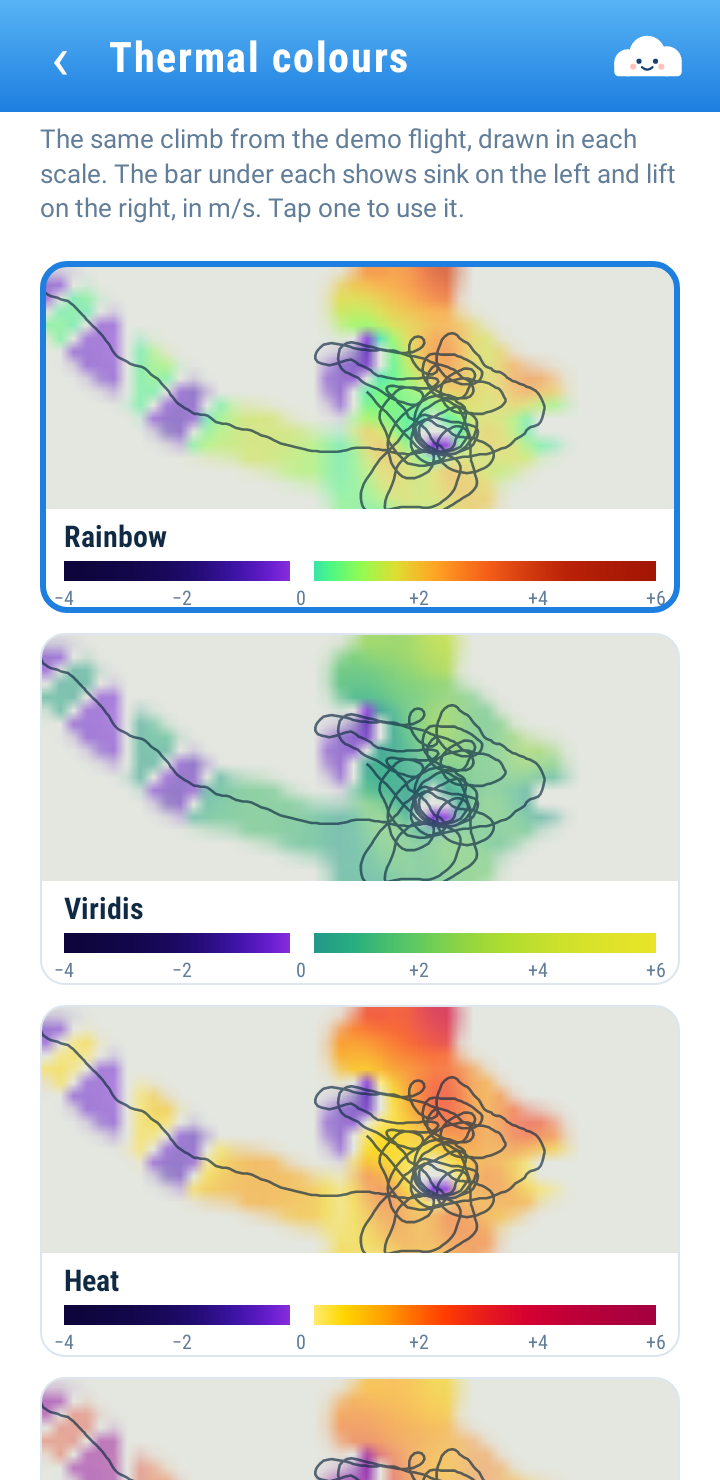
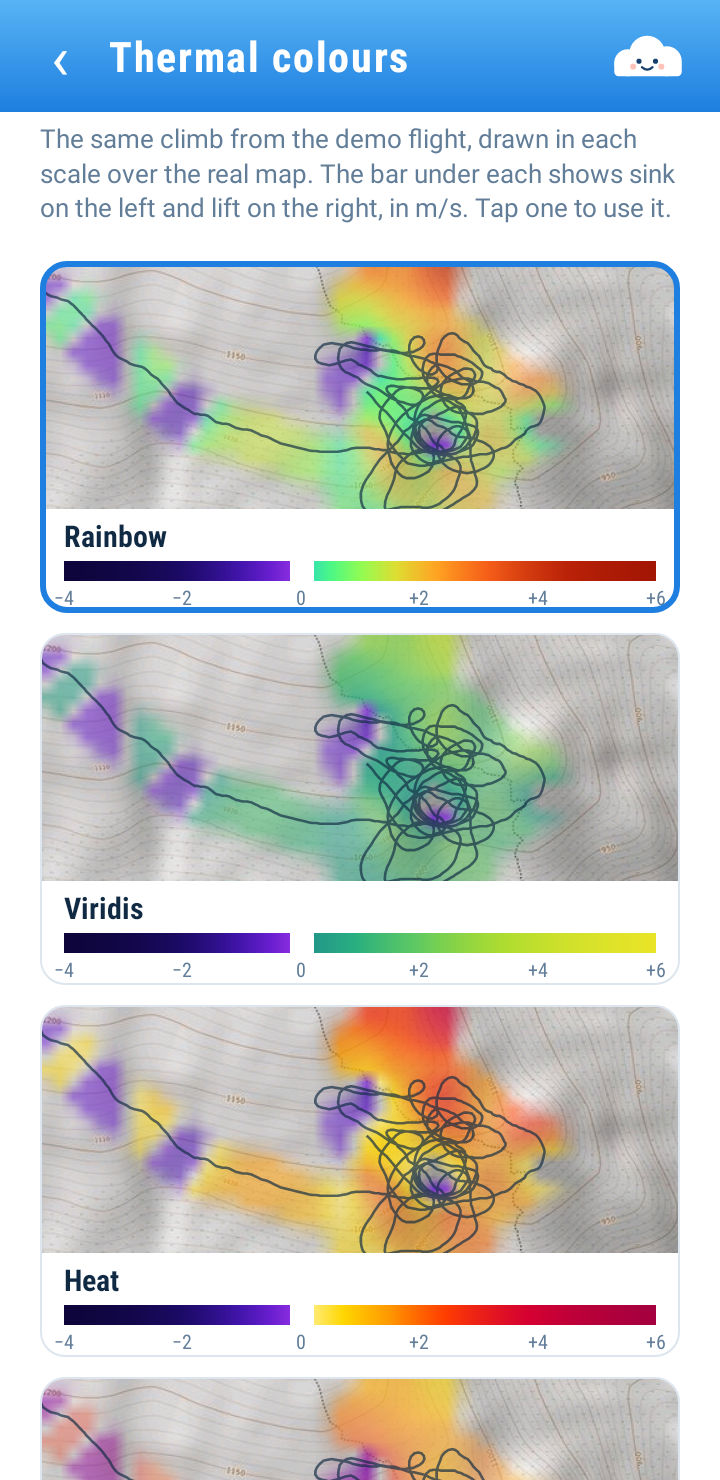
cloudbase: thermal colour previews drawn over the real map
Claude-Session: https://claude.ai/code/session_01WPq8MfriARqNX7o4hLC8bK

diff --git a/app/src/main/java/app/cloudbase/ui/PalettePreview.kt b/app/src/main/java/app/cloudbase/ui/PalettePreview.kt
@@ -2,6 +2,7 @@ package app.cloudbase.ui
 
 import android.content.Context
 import android.graphics.Bitmap
+import android.graphics.BitmapFactory
 import android.graphics.Canvas
 import android.graphics.Color
 import android.graphics.Paint
@@ -19,15 +20,21 @@ import app.cloudbase.ui.Theme.sp
 
 /**
  * What the thermal map looked like a third of the way into the demo flight (a real one: a climb,
- * with sink on the way in), kept as plain numbers so it can be drawn in any colour scale. The
+ * with sink on the way in), kept as plain numbers so it can be drawn in any colour scale, and
+ * the piece of real map it happened over. The
  * settings page shows it once per scale so the choice is made on real air, not on a legend.
  */
 object PaletteSample {
     const val SIZE = 48
     /** Seconds into the recorded flight: circling in the climb at Coronet Peak. */
     private const val AT_S = 1060
+    private const val MAP_ASSET = "preview_map.jpg"
 
-    class Data(val ix: IntArray, val iy: IntArray, val climb: FloatArray, val weight: FloatArray, val trackX: FloatArray, val trackY: FloatArray)
+    /** [map] is the real map under exactly this window (tools/make_preview_map.py), or null if it could not be read. */
+    class Data(
+        val ix: IntArray, val iy: IntArray, val climb: FloatArray, val weight: FloatArray,
+        val trackX: FloatArray, val trackY: FloatArray, val map: Bitmap?,
+    )
 
     @Volatile var data: Data? = null
         private set
@@ -74,7 +81,11 @@ object PaletteSample {
         val trail = c.trail
         val tx = FloatArray(trail.size) { k -> (proj.x(trail.lon(k)) / cell).toFloat() + SIZE / 2 }
         val ty = FloatArray(trail.size) { k -> SIZE / 2 - (proj.y(trail.lat(k)) / cell).toFloat() }
-        return Data(ix.toIntArray(), iy.toIntArray(), climb.toFloatArray(), weight.toFloatArray(), tx, ty)
+        // How a colour scale reads depends on what is underneath, so the previews sit on the real map.
+        val map = try {
+            context.assets.open(MAP_ASSET).use { BitmapFactory.decodeStream(it, null, BitmapFactory.Options().apply { inPreferredConfig = Bitmap.Config.RGB_565 }) }
+        } catch (e: Exception) { null }
+        return Data(ix.toIntArray(), iy.toIntArray(), climb.toFloatArray(), weight.toFloatArray(), tx, ty, map)
     }
 }
 
@@ -83,7 +94,7 @@ class PalettePreview(context: Context, private val palette: HeatGrid.Palette, pr
     private val bitmap = Bitmap.createBitmap(PaletteSample.SIZE, PaletteSample.SIZE, Bitmap.Config.ARGB_8888)
     private var rendered = false
     private val filter = Paint(Paint.FILTER_BITMAP_FLAG)
-    private val ground = Paint().apply { color = Color.parseColor("#E4E7E0") } // about the tone of the map's hill shading
+    private val ground = Paint().apply { color = Color.parseColor("#E4E7E0") } // shown until the map image has loaded
     private val trackPaint = Paint(Paint.ANTI_ALIAS_FLAG).apply { style = Paint.Style.STROKE; color = Color.argb(170, 16, 42, 67); strokeWidth = context.dp(1.3f) }
     private val border = Paint(Paint.ANTI_ALIAS_FLAG).apply { style = Paint.Style.STROKE; color = if (selected) Theme.ACCENT else Theme.LINE; strokeWidth = context.dp(if (selected) 3f else 1f) }
     private val text = Paint(Paint.ANTI_ALIAS_FLAG).apply { color = Theme.TEXT; textSize = context.sp(15f); typeface = Theme.CONDENSED_BOLD }
@@ -131,6 +142,7 @@ class PalettePreview(context: Context, private val palette: HeatGrid.Palette, pr
             dst.set(0f, top, side, top + side)
             canvas.save()
             canvas.clipRect(0f, 0f, width.toFloat(), pictureH)
+            d.map?.let { canvas.drawBitmap(it, null, dst, filter) }
             canvas.drawBitmap(bitmap, null, dst, filter)
             val k = side / PaletteSample.SIZE
             track.rewind()

diff --git a/app/src/main/java/app/cloudbase/ui/Pages.kt b/app/src/main/java/app/cloudbase/ui/Pages.kt
@@ -355,7 +355,7 @@ class OfflinePage(act: MainActivity) : Page(act, "Offline maps") {
 class ColoursPage(act: MainActivity) : Page(act, "Thermal colours") {
     override fun build() {
         val s = Hub.settings
-        note("The same climb from the demo flight, drawn in each scale. The bar under each shows sink on the left and lift on the right, in m/s. Tap one to use it.")
+        note("The same climb from the demo flight, drawn in each scale over the real map. The bar under each shows sink on the left and lift on the right, in m/s. Tap one to use it.")
         // The sample is worked out once, off the main thread; the tiles fill in when it is ready.
         PaletteSample.load(act, { r -> list.post(r) }) { rebuild() }
         for (p in HeatGrid.Palette.values()) {

diff --git a/tools/make_preview_map.py b/tools/make_preview_map.py
@@ -1,0 +1,60 @@
+#!/usr/bin/env python3
+"""Make app/src/main/assets/preview_map.jpg: the piece of map behind the thermal-colour previews.
+
+The Thermal colours page draws the thermal map as it was 1060 s into the demo flight
+(app/src/main/assets/demo_flight.igc) on a 48 x 48 grid of 30 m cells centred on the glider.
+This fetches the OpenTopoMap tiles under exactly that window, stitches and crops them, and saves
+one small image, so the previews show real map colours without needing the network.
+
+Re-run if the demo flight, PaletteSample.AT_S, SIZE or the cell size changes. Needs Pillow.
+    python3 tools/make_preview_map.py
+Map data (c) OpenStreetMap contributors, SRTM; map style (c) OpenTopoMap (CC-BY-SA).
+"""
+import io, math, os, urllib.request
+from PIL import Image
+
+HERE = os.path.dirname(os.path.abspath(__file__))
+IGC = os.path.join(HERE, "../app/src/main/assets/demo_flight.igc")
+OUT = os.path.join(HERE, "../app/src/main/assets/preview_map.jpg")
+AT_S, SIZE, CELL_M, ZOOM, PIXELS = 1060, 48, 30.0, 16, 512
+EARTH_R = 6_371_008.8  # as core/Geo.kt, so the window matches LocalProjection
+
+
+def fix_at(seconds):
+    rows = [l for l in open(IGC, errors="replace") if l.startswith("B")]
+    tod = lambda l: int(l[1:3]) * 3600 + int(l[3:5]) * 60 + int(l[5:7])
+    last = [l for l in rows if tod(l) - tod(rows[0]) <= seconds][-1]
+    lat = (int(last[7:9]) + int(last[9:14]) / 60000) * (-1 if last[14] == "S" else 1)
+    lon = (int(last[15:18]) + int(last[18:23]) / 60000) * (-1 if last[23] == "W" else 1)
+    return lat, lon
+
+
+def world_px(lat, lon):
+    n = 256 * 2 ** ZOOM
+    s = math.sin(math.radians(lat))
+    return (lon + 180) / 360 * n, (0.5 - math.log((1 + s) / (1 - s)) / (4 * math.pi)) * n
+
+
+def main():
+    lat0, lon0 = fix_at(AT_S)
+    m_lat = EARTH_R * math.pi / 180
+    m_lon = m_lat * math.cos(math.radians(lat0))
+    # Grid column i covers east (i - SIZE/2 - 0.5 .. i - SIZE/2 + 0.5) cells; row j covers north (SIZE/2 - j + 0.5 .. - 0.5).
+    west, east = (-SIZE / 2 - 0.5) * CELL_M, (SIZE / 2 - 0.5) * CELL_M
+    north, south = (SIZE / 2 + 0.5) * CELL_M, (-SIZE / 2 + 0.5) * CELL_M
+    x0, y0 = world_px(lat0 + north / m_lat, lon0 + west / m_lon)
+    x1, y1 = world_px(lat0 + south / m_lat, lon0 + east / m_lon)
+    tx0, ty0, tx1, ty1 = int(x0 // 256), int(y0 // 256), int(x1 // 256), int(y1 // 256)
+    sheet = Image.new("RGB", ((tx1 - tx0 + 1) * 256, (ty1 - ty0 + 1) * 256))
+    for tx in range(tx0, tx1 + 1):
+        for ty in range(ty0, ty1 + 1):
+            url = f"https://tile.opentopomap.org/{ZOOM}/{tx}/{ty}.png"
+            req = urllib.request.Request(url, headers={"User-Agent": "Cloudbase/0.1 (preview map generator)"})
+            sheet.paste(Image.open(io.BytesIO(urllib.request.urlopen(req, timeout=30).read())).convert("RGB"), ((tx - tx0) * 256, (ty - ty0) * 256))
+    crop = sheet.crop((round(x0 - tx0 * 256), round(y0 - ty0 * 256), round(x1 - tx0 * 256), round(y1 - ty0 * 256)))
+    crop.resize((PIXELS, PIXELS), Image.LANCZOS).save(OUT, quality=82)
+    print(f"centre {lat0:.5f},{lon0:.5f}; {sheet.size[0] // 256}x{sheet.size[1] // 256} tiles; wrote {OUT} ({os.path.getsize(OUT)} bytes)")
+
+
+if __name__ == "__main__":
+    main()

diff --git a/README.md b/README.md
@@ -140,6 +140,7 @@ to share or upload it.
 - `app/` — Android: `FlightService` (GPS, sensors, demo), `map/` (tile view, cache, terrain
   elevation), `ui/` (instruments, overlays, side view, settings pages).
 - `tools/make_geoid.py` regenerates the geoid grid from the NGA EGM96 data.
+- `tools/make_preview_map.py` regenerates the map image behind the thermal-colour previews.
 
 Map © OpenStreetMap contributors, SRTM; map style © OpenTopoMap (CC-BY-SA). Terrain: Mapzen
 terrain tiles on AWS. Airspace: openAIP.
